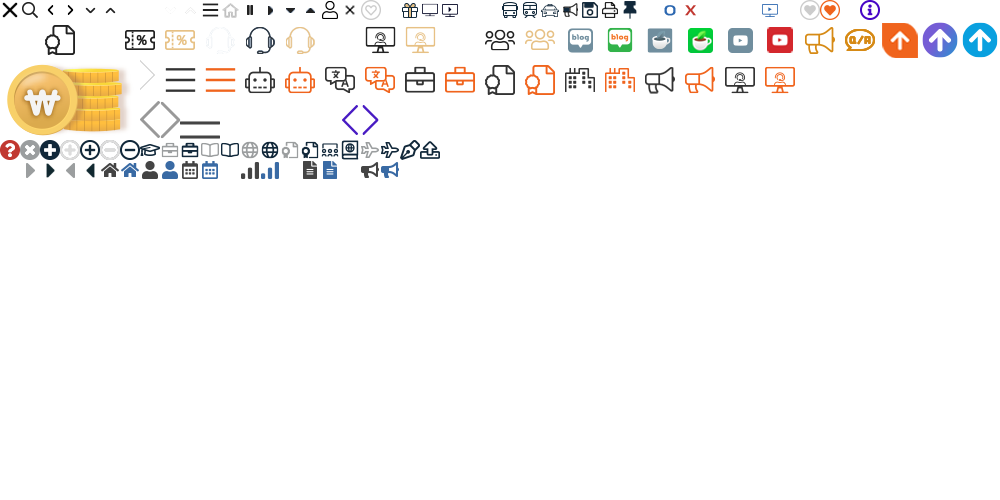
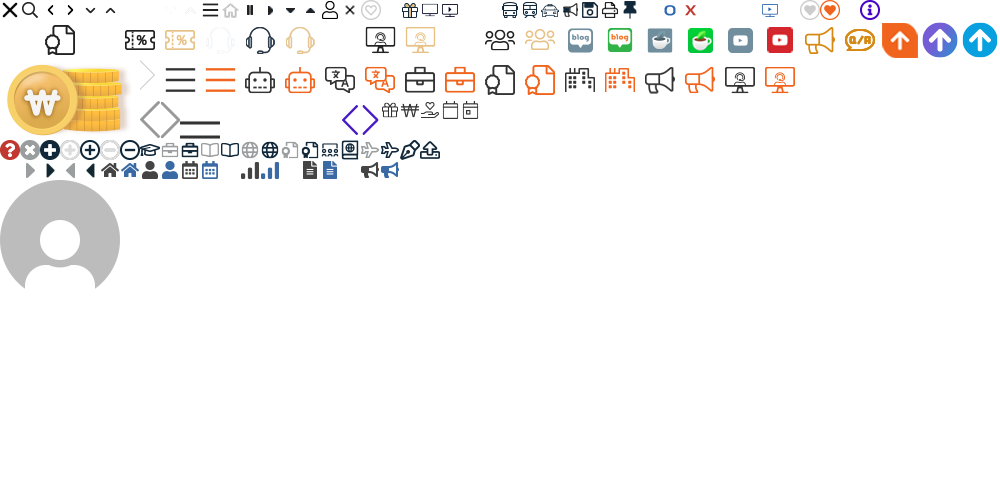
2021-06-24 update

Changed region(s): [[0.0, 0.36, 0.124, 0.57], [0.372, 0.21, 0.496, 0.24]]

diff --git a/src/main/webapp/resources/segroup/society/smtp/css/rainbow_style.css b/src/main/webapp/resources/segroup/society/smtp/css/rainbow_style.css
@@ -55,7 +55,8 @@
 .container_rainbow>.content .linkBannerWrapper .linkBannerWrap,
 /* .container_rainbow>.footerWrap>.footer, */
 .container_rainbow>.content .employmentWrap,
-.container_rainbow .videoWrapper{
+.container_rainbow .videoWrapper,
+.course-infoTable{
     width: 1200px;
     margin: 0 auto;
 }
@@ -950,6 +951,39 @@
 /* [과정] Digital ABC 과정 */
 .sub02_content>.background.sub02-01_content.bg_digitalABC{
 	background-image: url('../img/course_back_sub02-01-digitalABC.jpg');
+}
+
+/* [과정] Digital ABC 과정 >> 개요 추가  */
+.course-infoTable{
+    background-color: #f7f7f7;
+    border : 1px solid #bcbcbc;
+    margin : 40px auto 0;
+    font-weight : bold;
+}
+.course-infoTable>.d-flex{}
+    .course-infoTable>.d-flex:nth-child(1)~*{
+        border-top: 1px solid #bcbcbc;
+    }
+.course-infoTable>.d-flex>.infoTh,
+.course-infoTable>.d-flex>.infoTd{
+    padding: 20px;
+}
+.course-infoTable>.d-flex>.infoTh{
+    align-items: center;
+    min-width : 130px;
+	justify-content: center;
+    -webkit-box-pack: center;
+    -ms-flex-pack: center;
+}
+.course-infoTable>.d-flex>.infoTh>.img-icon{
+    margin-right: 5px;
+}
+.course-infoTable>.d-flex>.infoTd{
+    line-height: 30px;
+}
+
+.course-infoTable .fc_point01{
+	color: #ff6d56;
 }
 /* [과정] SoftWare DevOps 과정 */
 .sub02_content>.background.sub02-01_content.bg_swdo{

diff --git a/src/main/webapp/resources/segroup/society/smtp/css/img-icon.css b/src/main/webapp/resources/segroup/society/smtp/css/img-icon.css
@@ -461,3 +461,38 @@ background-position: -180px 0;
 .info-circle_pp{
     background-position: -860px 0;
 }
+
+/*--------------------------------------------------------------
+  >> 2021_rainbow
+----------------------------------------------------------------*/
+
+.user-blank{
+    width: 120px; height: 120px;
+    background-position: 0 -180px;
+}
+.university,
+.laptop-code,
+.id-card,
+.globe-stand,
+.credit-card{
+    width: 40px; height: 40px;
+}
+.id-card{background-position: -800px -60px;}
+.globe-stand{background-position: -840px -60px;}
+.laptop-code{background-position: -880px -60px;}
+.university{background-position: -920px -60px;}
+.credit-card{background-position: -960px -60px;}
+
+.gift,
+.won-sign,
+.hand-holding-heart,
+.calendar,
+.calendar-day{
+    width: 20px;
+    height: 20px;
+}
+.gift{background-position: -380px -100px;}
+.won-sign{background-position: -400px -100px;}
+.hand-holding-heart{background-position: -420px -100px;}
+.calendar{background-position: -440px -100px;}
+.calendar-day{background-position: -460px -100px;}

diff --git a/src/main/webapp/resources/segroup/society/smtp/css/rainbow_style_responsive.css b/src/main/webapp/resources/segroup/society/smtp/css/rainbow_style_responsive.css
@@ -27,7 +27,8 @@
     .container_rainbow>.sub01_content, .container_rainbow>.sub04_content, .container_rainbow>.sub05_content,
     .rainbow_myClass>.content_myClsss>.section_sub05-01,
     .container_rainbow .videoWrapper,
-    .container_rainbow>.headerWrap>.header-menuWrap>.header-subMenuWrap{
+    .container_rainbow>.headerWrap>.header-menuWrap>.header-subMenuWrap,
+    .course-infoTable{
         width: calc(100% - 80px);
     }
     /* fullWrapper */
@@ -196,7 +197,8 @@
     .sub-content>.curriculumWrap,
     .sub-content>.courseReviewWrap>.courseReview,
     .sub-content>.RecommendationWrap, .courseRegistrationWrap, .container_rainbow>.sub01_content, .container_rainbow>.sub04_content, .container_rainbow>.sub05_content, .rainbow_myClass>.content_myClsss>.section_sub05-01,
-    .container_rainbow .videoWrapper{
+    .container_rainbow .videoWrapper,
+    .course-infoTable{
         width: calc(100% - 40px);
         min-width : 300px;
     }

diff --git a/src/main/webapp/resources/segroup/society/smtp/js/rainbow_script.js b/src/main/webapp/resources/segroup/society/smtp/js/rainbow_script.js
@@ -5,7 +5,7 @@ $(function() {
 	var swiper = new Swiper('.mainBannerWrapper', {
         centeredSlides: true,
         autoplay: {
-          delay: 2500,
+          delay: 4000,
           disableOnInteraction: false,
         },
         pagination: {
@@ -19,7 +19,7 @@ $(function() {
     });
 	
 	
-    // index >> 이벤트 배너 이미지 슬라이더 커밋용
+    // index >> 이벤트 배너 이미지 슬라이더 커밋용ㄴㄴ
     var swiper = new Swiper('.bannerWrapper', {
         slidesPerView: 3,
 		spaceBetween: 20,
